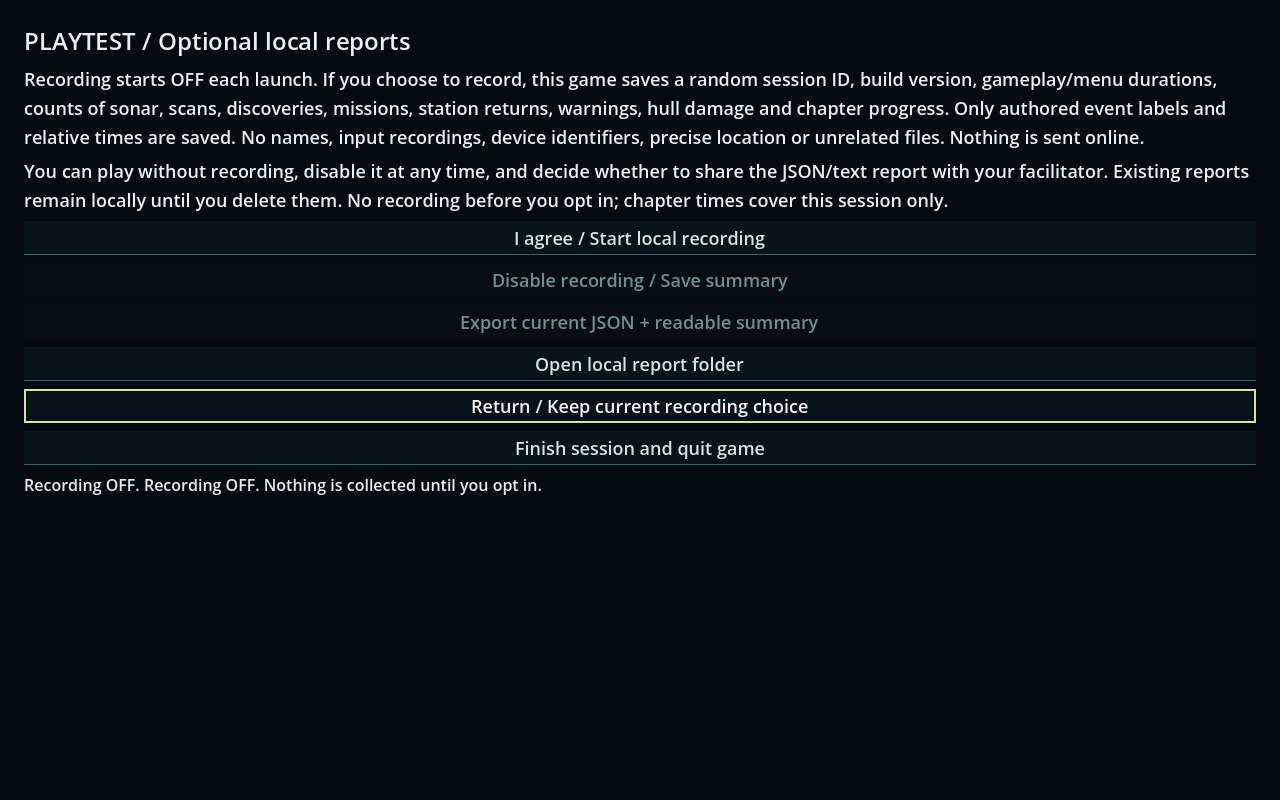
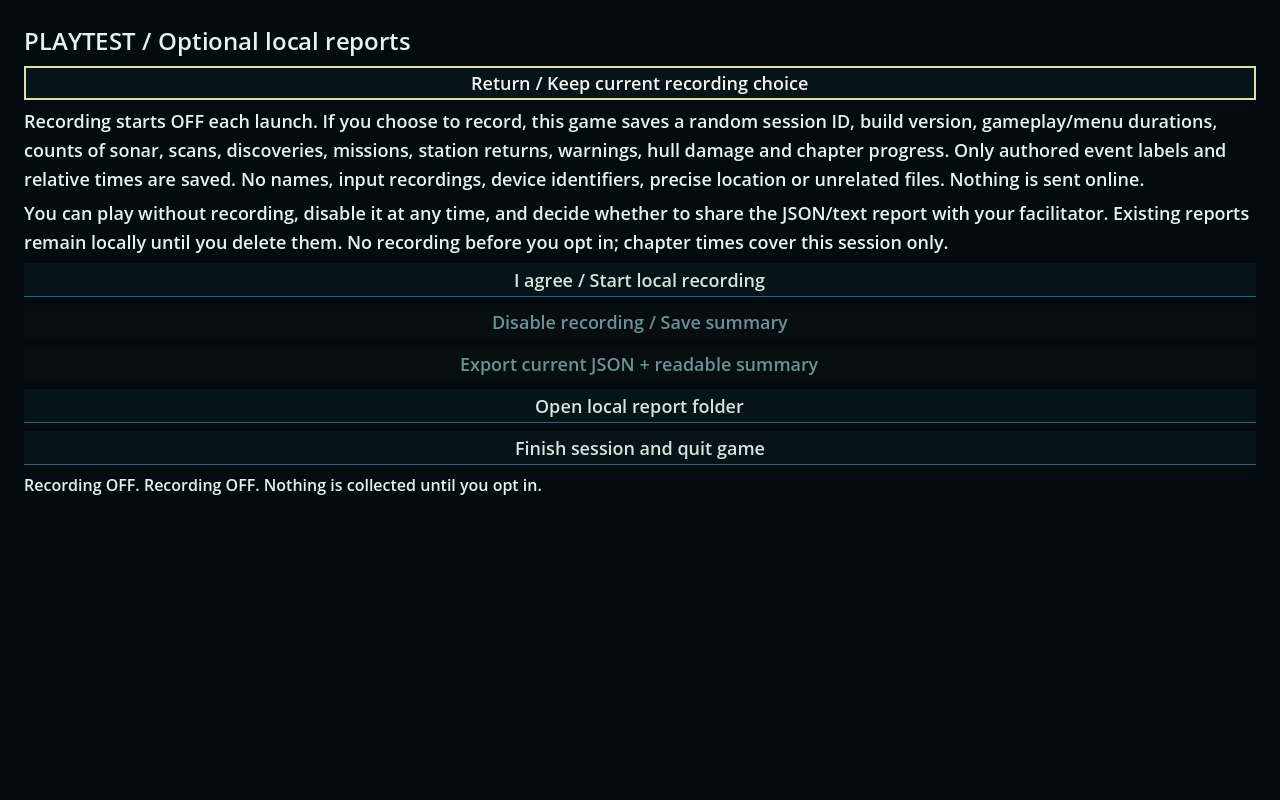
fix: keep playtest consent disclosure visible with large text

Changed region(s): [[0.0, 0.0625, 0.9688, 0.3125], [0.0312, 0.3438, 0.9688, 0.5312]]

diff --git a/docs/playtesting/verification.md b/docs/playtesting/verification.md
@@ -27,9 +27,9 @@ godot --headless --path . --script res://addons/gut/gut_cmdln.gd -gexit -gdisabl
 Recorded local results:
 
 - Headless import + **179 authored script checks** + startup smoke: PASS.
-- Complete GUT: **444/444**, **54 scripts**, **25,499 assertions**, **277.995 seconds**,
+- Complete GUT: **444/444**, **54 scripts**, **25,500 assertions**, **274.639 seconds**,
   no failures/errors/skips. All 430 prior cases retained, plus 14 new cases.
-- Focused new GUT: **14/14**, **122 assertions**, **4.154 seconds**.
+- Focused new GUT: **14/14**, **123 assertions**, **10.860 seconds**.
 - Python analysis: **5/5 passing** synthetic-data cases.
 - `git diff --check`: PASS.
 
@@ -136,9 +136,12 @@ repeating recovery, because rejected-file preservation intentionally blocks reus
   plus empty feedback: **0 participants, 1 session**, sonar distribution [2].
   This report is NOT human research evidence.
 
+The final consent layout places the safe Return default before the disclosure; native 800×600 Large verification confirmed the entire disclosure remains visible before opt-in, with recording OFF. This follow-up does not replace the separately labeled development-build chapter/performance trace.
+
 Actual Godot renders of the exported content:
 
 - [Consent page, recording OFF and Return focused](evidence/bta-044-consent.png)
+- [800×600 Large disclosure after the final focus-order fix](evidence/bta-044-consent-small.png)
 - [HUD after actual scan, Large/muted/reduced effects](evidence/bta-044-hud.png)
 - [Restored log (story spoilers)](evidence/bta-044-continued.png)
 

diff --git a/docs/playtesting/telemetry.md b/docs/playtesting/telemetry.md
@@ -43,7 +43,7 @@ synchronizes occupancy silently. Domain restore notifications reset observationa
 baselines; sonar/discovery/scan/mission identity suppression remains independent
 of, and never modifies, campaign or acoustic history. Restart retains one recording
 session and its totals; Continue adds a restore milestone without replaying progress.
-A new application launch always requires new consent and creates a new random ID.
+New Expedition uses the existing checkpoint restore path and therefore also records a continue milestone; it retains the current recording session. A new application launch always requires new consent and creates a new random ID.
 
 No names, emails, IPs, device identifiers, precise world/GPS positions, filesystem
 paths, input streams, screenshots or unrelated logs are in a report. Error labels
